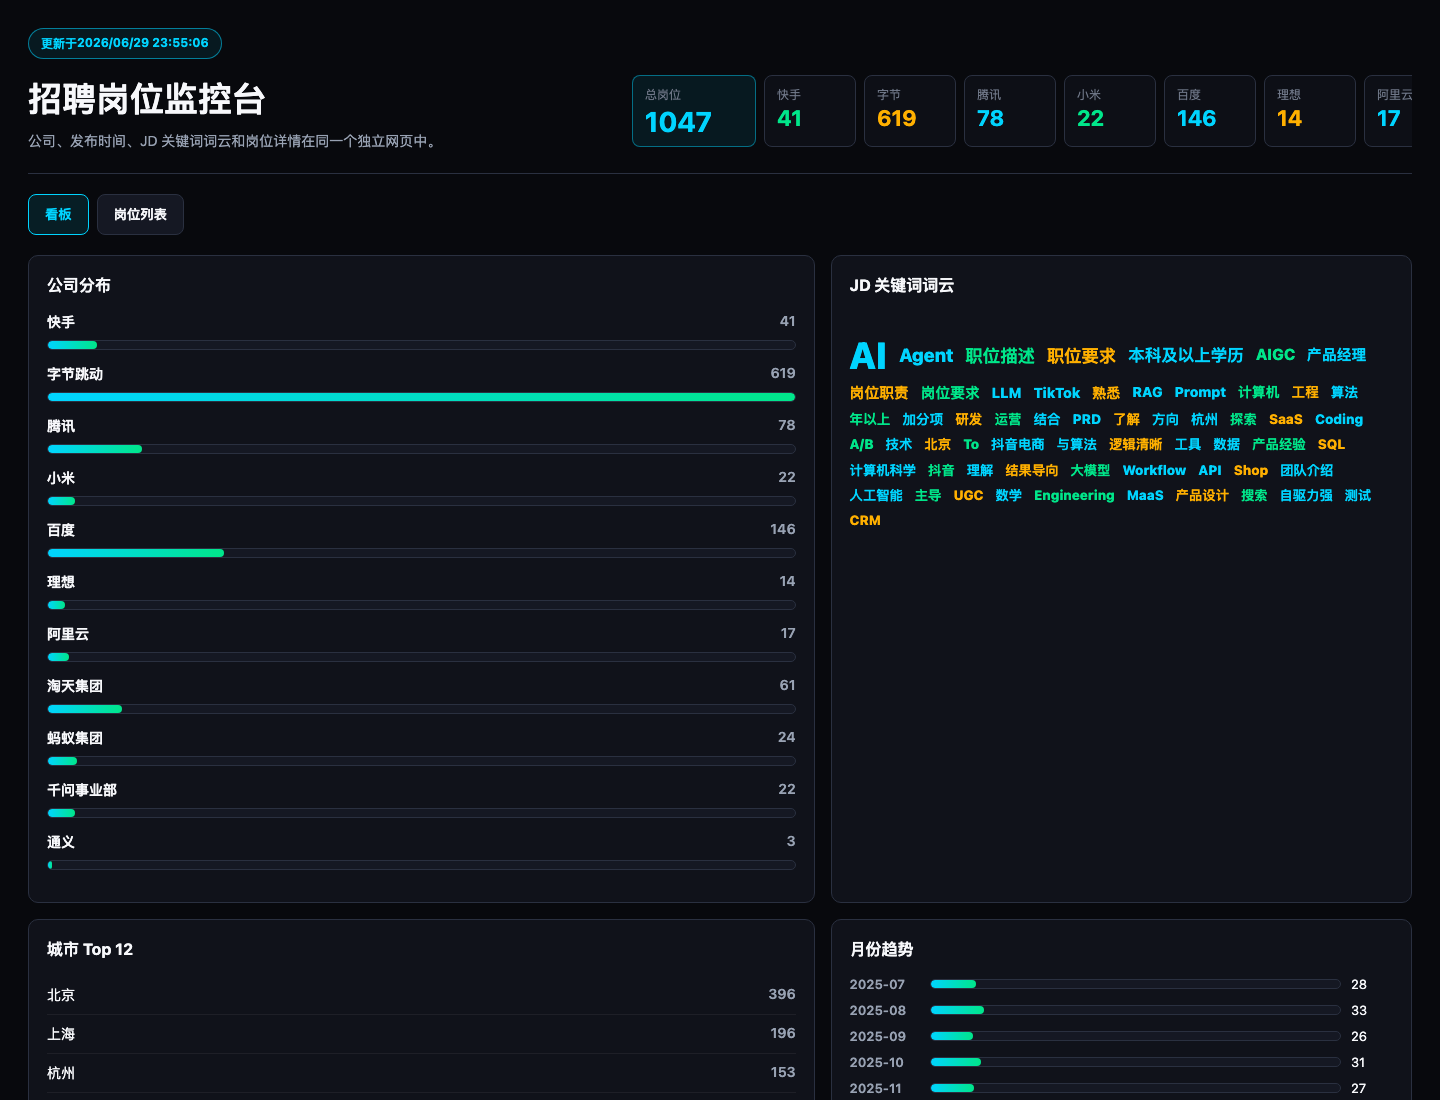
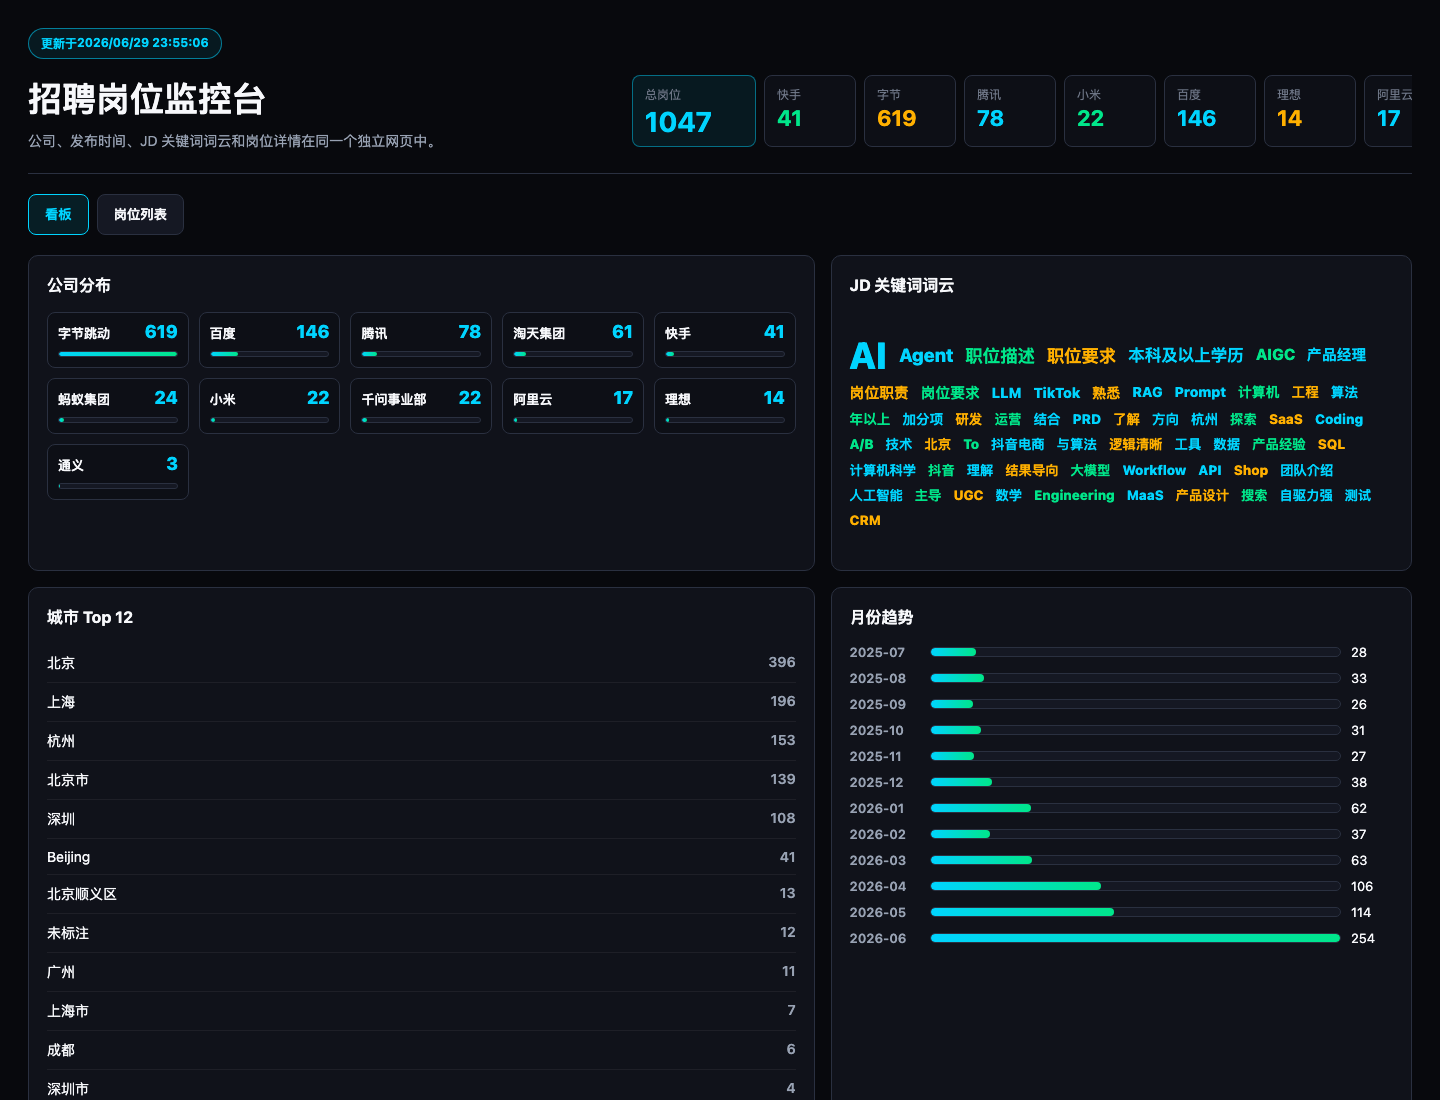
docs: add jobs list screenshot

diff --git a/README.md b/README.md
@@ -15,7 +15,13 @@
 
 ## 页面截图
 
+### 看板视图
+
 ![AI / Agent 产品经理岗位看板截图](assets/ai-agent-pm-dashboard.png)
+
+### 岗位列表
+
+![AI / Agent 产品经理岗位列表截图](assets/ai-agent-pm-jobs-list.png)
 
 ## 当前已支持公司
 

diff --git a/docs/CHANGELOG.md b/docs/CHANGELOG.md
@@ -11,8 +11,9 @@ and this project adheres to [Semantic Versioning](https://semver.org/).
 
 ### Added
 - AI / Agent 产品经理岗位雷达改为通过本机 Codex Skill 由 Agent 主动抓取和更新数据，不再依赖仓库内固定 Python 抓取脚本或 macOS LaunchAgent 定时任务。
-- README 增加静态 HTML 看板截图，便于 GitHub 项目页直接展示页面效果。
+- README 增加静态 HTML 看板和岗位列表截图，便于 GitHub 项目页直接展示页面效果。
 - AI / Agent 产品经理岗位雷达 Skill 内置各来源抓取技巧与重试策略；单个来源失败时 Agent 会先自主重试一次，重试仍失败才保留旧数据继续执行。
+- AI / Agent 产品经理岗位雷达将公司分布模块改为紧凑网格，减少首屏纵向占用。
 - AI / Agent 产品经理岗位雷达新增百度社会招聘数据源，页面统计、筛选和变动聚合支持第五家公司。
 - AI / Agent 产品经理岗位雷达新增理想汽车社会招聘数据源，页面统计、筛选和变动聚合支持第六家公司。
 - AI / Agent 产品经理岗位雷达新增阿里云、淘天集团、蚂蚁集团、千问事业部、通义招聘数据源，页面统计、筛选和变动聚合支持更多公司。